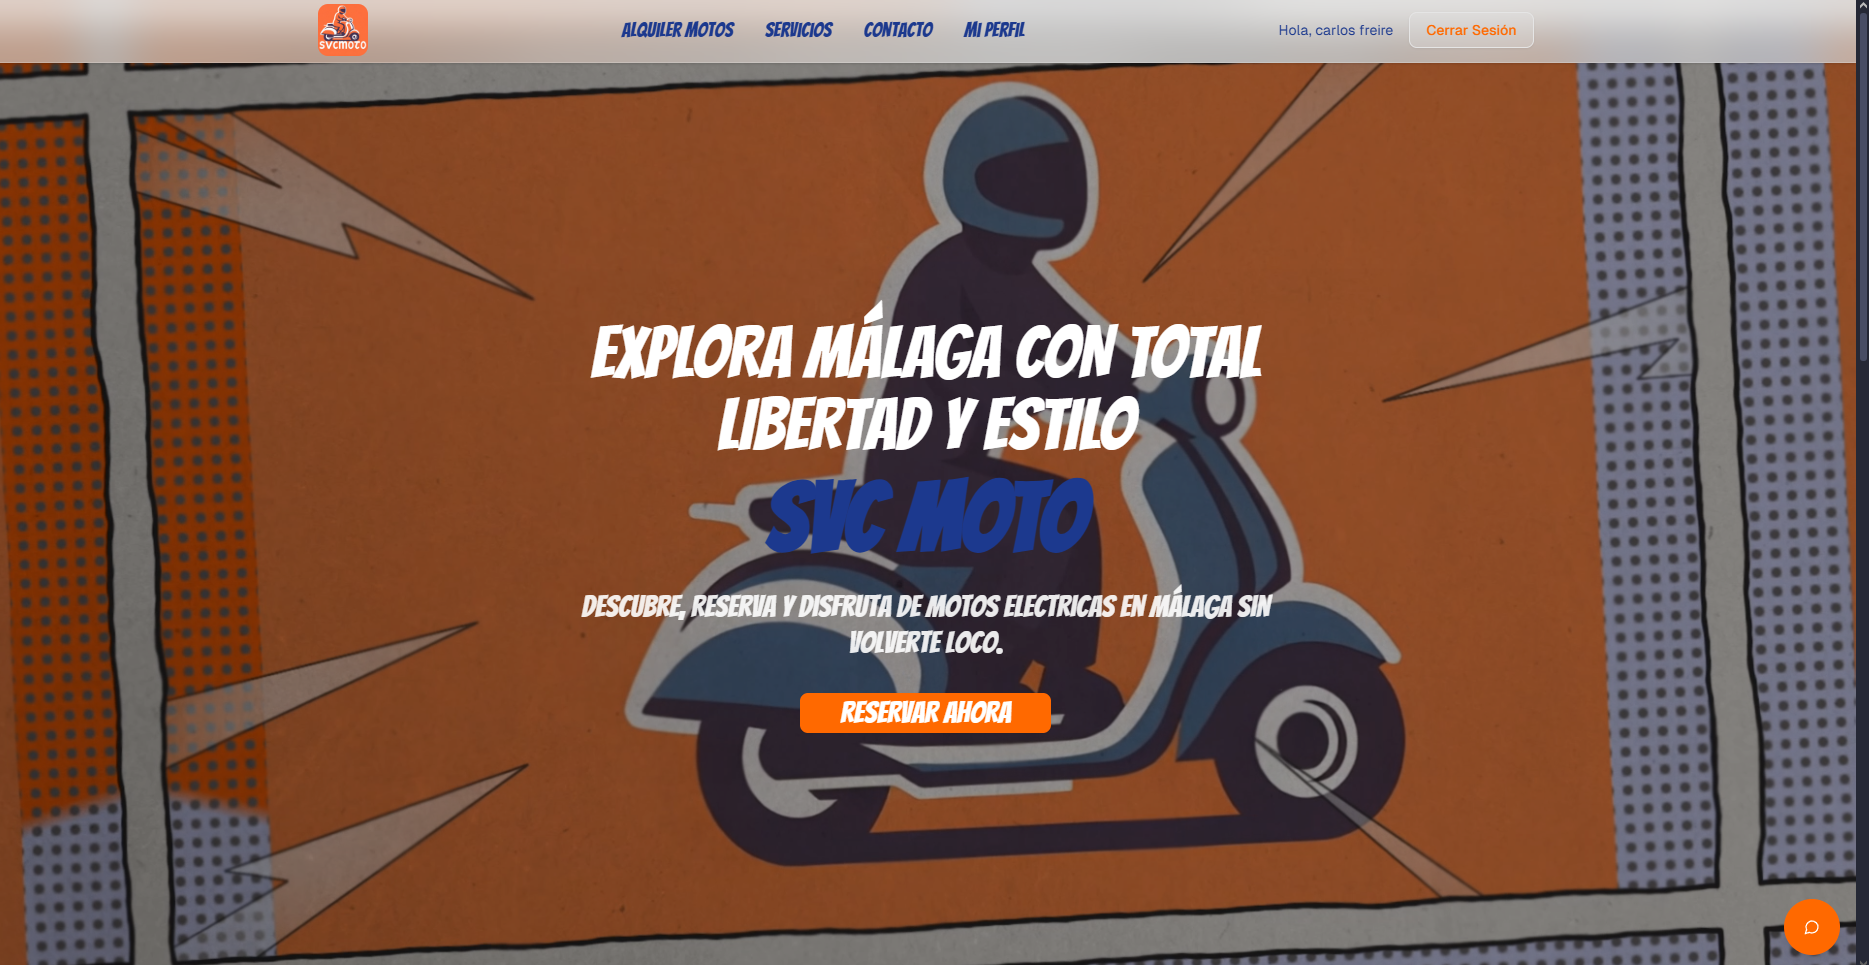
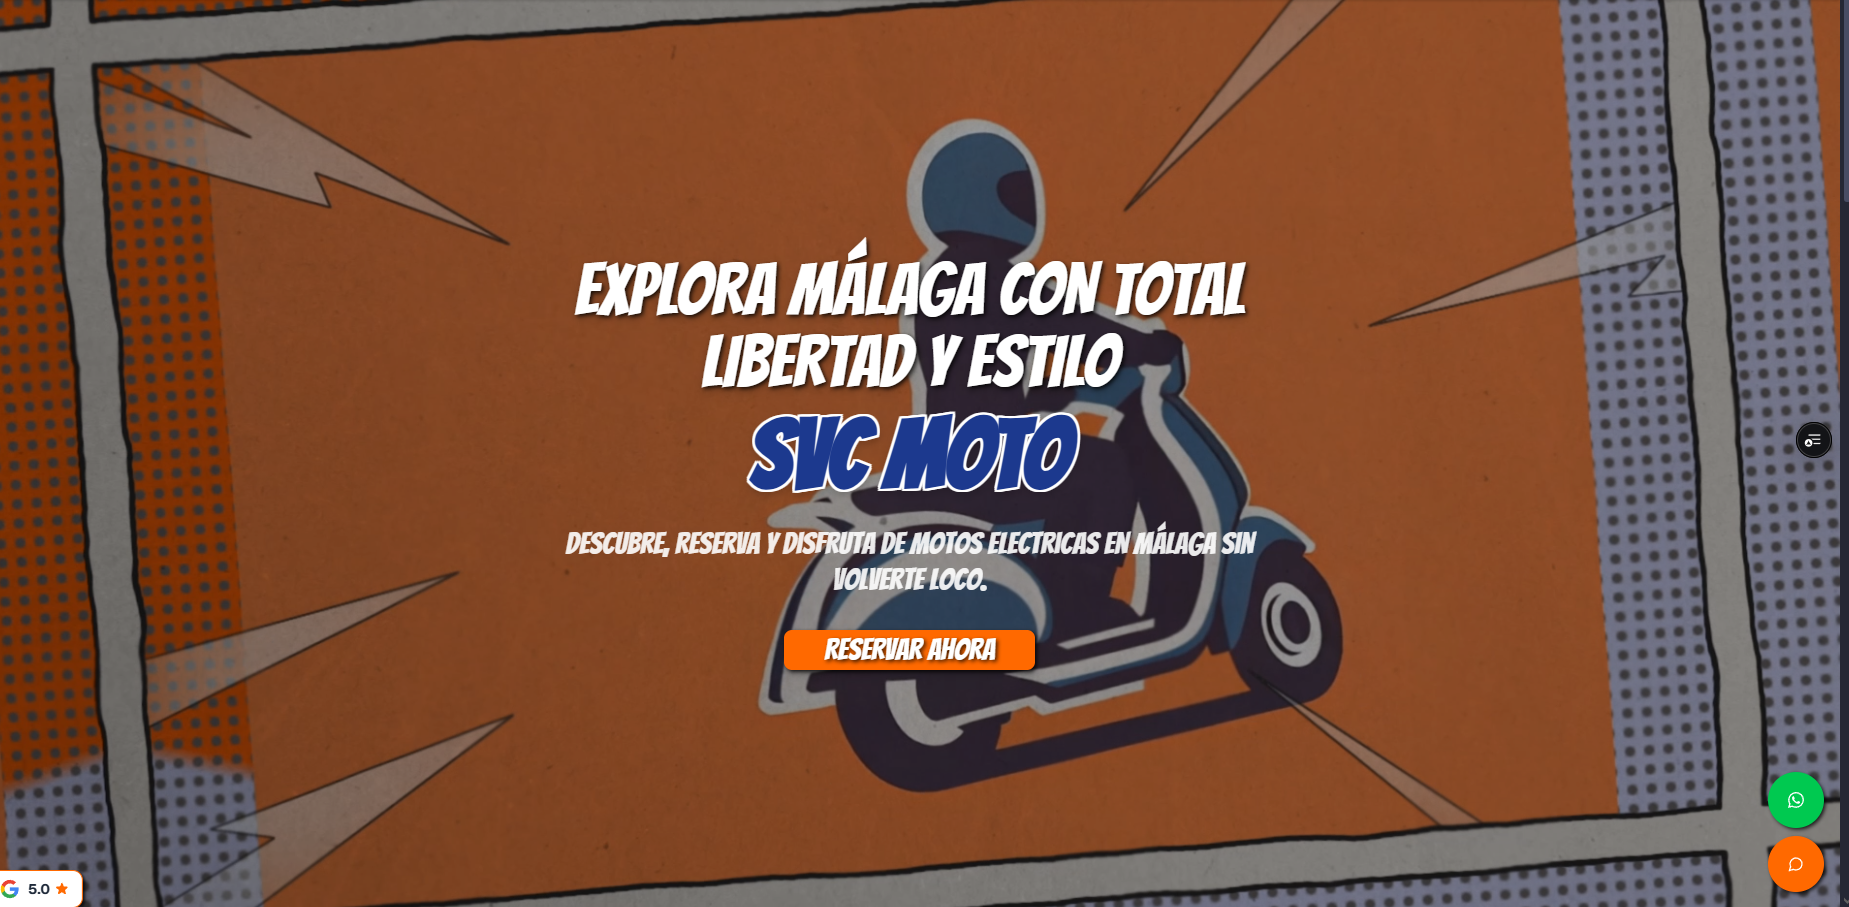
docs(projects): update svc moto project description and status
Update the project description to include new features (discounts, achievements, and points) and change the status from "Trabajando" to "Finalizado"

diff --git a/src/data/projects.ts b/src/data/projects.ts
@@ -20,14 +20,13 @@ const projectsData: ProjectData[] = [
   {
     id: 'scv-moto',
     title: 'SVC Moto',
-    description: 'Página web tienda especializada en alquiler de motos eléctricas ubicada en Málaga centro. Plataforma completa que ofrece servicios de movilidad urbana sostenible con una flota moderna de vehículos eléctricos. Incluye sistema de reservas, información detallada de la flota y servicios de reparación y mantenimiento.',
+    description: 'Página web tienda especializada en alquiler de motos eléctricas ubicada en Málaga centro. Plataforma completa que ofrece servicios de movilidad urbana sostenible con una flota moderna de vehículos eléctricos. Incluye sistema de reservas, descuentos, logros y puntos, información detallada de la flota y servicios de reparación y mantenimiento.',
     image: 'images/svcportada.png',
     icon: 'images/project-icons/svcmoto.png',
     tags: ['E-commerce', 'Movilidad', 'Alquiler', 'OpenAI', 'TypeScript', 'Next.js'],
     demoUrl: 'https://svcmoto.vercel.app',
     codeUrl: 'https://github.com/420btc/svcmoto',
-    status: 'Trabajando',
-    blocked: true,
+    status: 'Finalizado',
     date: new Date('2025-09-01')
   },
   {
